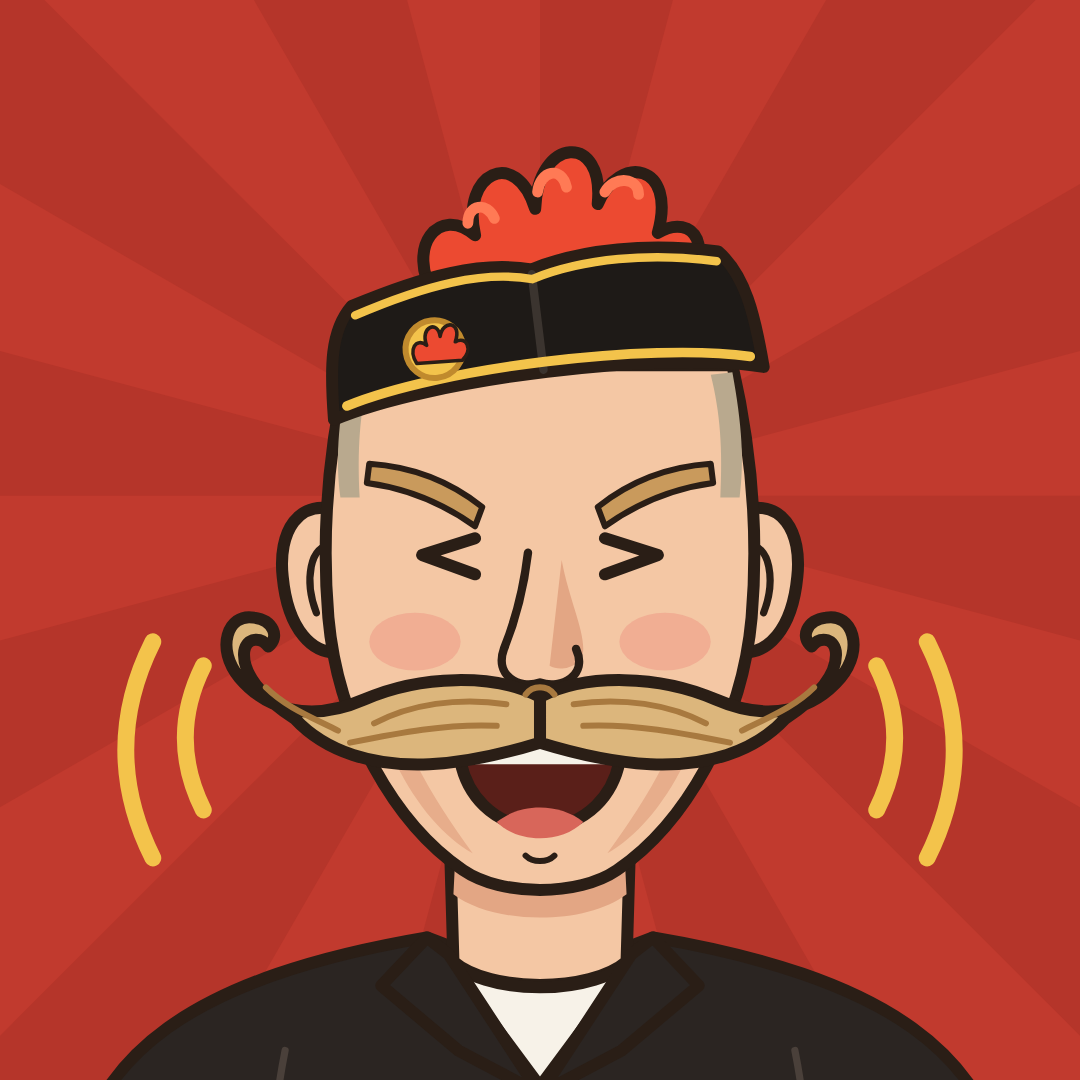
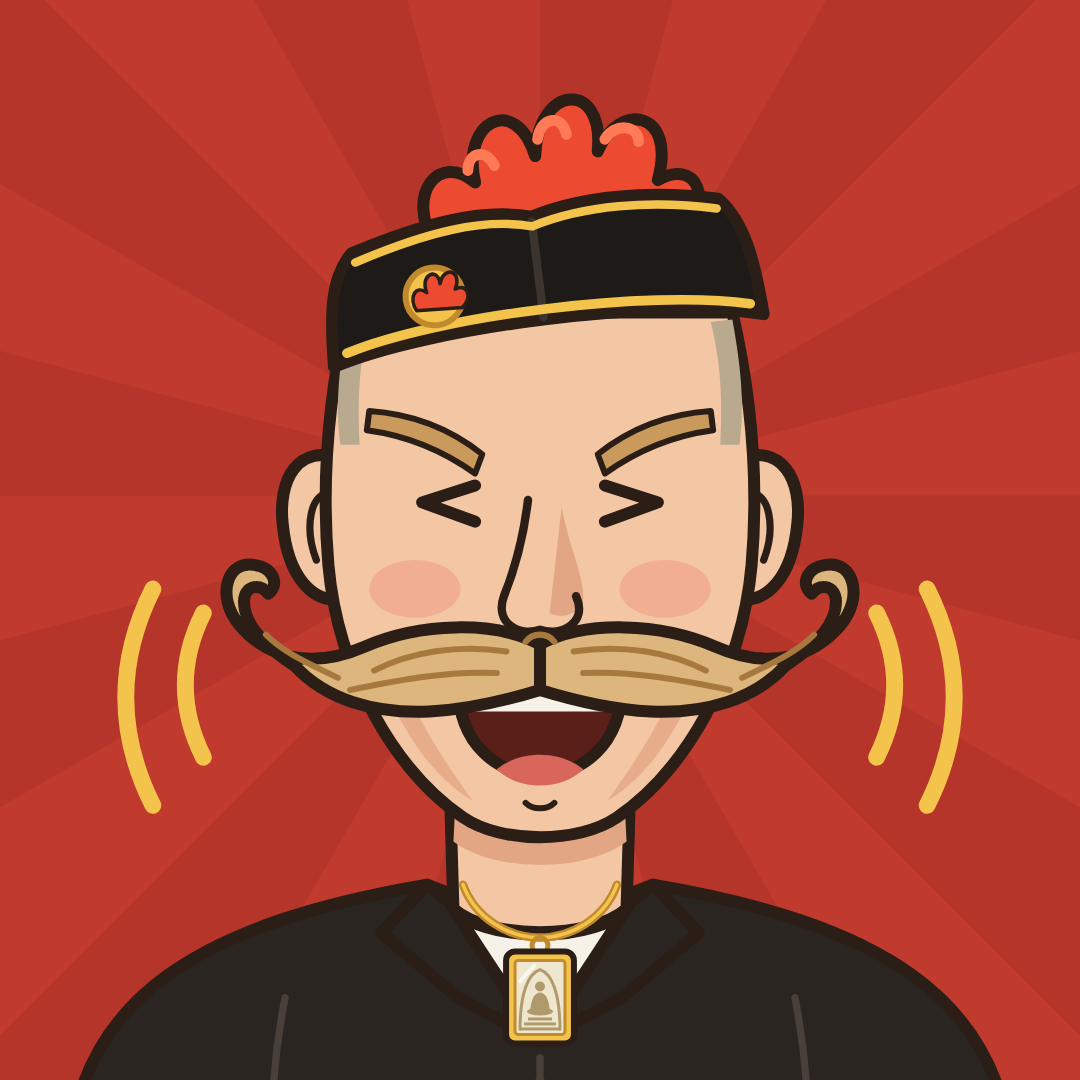
Gai Chon wears his พระสมเด็จ
A powder tablet in a gold case on a gold chain at the throat: seated
Buddha under the bell arch on a three-tier base. The figure moves up
40 px so the pendant sits inside the round crop; tests/test_cast.py
now checks the amulet's foot as well and reads the placement from
make_cast.CHAR_Y/CHAR_S instead of a copy of it.

Claude-Session: https://claude.ai/code/session_01JFezkyuZkike4PLAT6MXEq

Changed region(s): [[0.0611, 0.0611, 0.9472, 1.0]]

diff --git a/make_cast.py b/make_cast.py
@@ -24,6 +24,7 @@ correctly by definition (same reason as make_og_cards.py).
 The palette is the site's: --ant #c13a2e behind him (it is also the red of the
 portraits he was drawn from), --ink #2a1e16 for every line, --gold for the
 piping. No emblem of any organisation is drawn on the cap; the pin is a comb.
+At his throat, the พระสมเด็จ he wears, in a gold case on a gold chain.
 """
 import argparse
 import shutil
@@ -64,6 +65,10 @@ CAP = "#1e1a17"
 SHIRT = "#2b2522"
 TEE = "#f7f2e8"
 LENS = "#3a2f28"
+
+# where the avatar hangs the character: raised so the amulet at his throat
+# stays inside the round crop
+CHAR_Y, CHAR_S = 490, 1.14
 
 W = 10  # the one line weight; the bug scales it, nothing else changes it
 
@@ -122,6 +127,41 @@ def shoulders():
         f'<path d="M512 950 L512 1030"/><path d="M300 900 C290 950 288 990 290 1030"/>'
         f'<path d="M724 900 C734 950 736 990 734 1030"/></g>'
         f'<circle cx="512" cy="975" r="8" fill="#4a403a"/>'
+    )
+
+
+def amulet():
+    """พระสมเด็จ on a gold chain: a powder tablet in a gold case, the seated
+    Buddha under the bell arch on a three-tier base. At the throat, where he
+    wears it; it sits inside the round crop (tests/test_cast.py)."""
+    chain = 'M448 806 C458 834 486 850 512 850'
+    tablet = "#efe6cf"
+    relief = "#b09a6c"
+    return (
+        mirror(chain, "none", stroke=GOLD_DEEP, sw=7)
+        + mirror(chain, "none", stroke=GOLD, sw=3)
+        # the pendant is drawn at full size and hung at 0.83 from the chain's foot
+        + '<g transform="translate(512 850) scale(.83) translate(-512 -856)">'
+        + f'<circle cx="512" cy="864" r="8" fill="none" stroke="{GOLD_DEEP}" stroke-width="5"/>'
+        + f'<rect x="478" y="870" width="68" height="92" rx="9" fill="{GOLD}" '
+          f'stroke="{INK}" stroke-width="6"/>'
+        + f'<rect x="487" y="879" width="50" height="74" rx="3" fill="{tablet}" '
+          f'stroke="{GOLD_DEEP}" stroke-width="3"/>'
+        # the bell arch
+        + f'<path d="M492 948 C492 912 500 892 512 888 C524 892 532 912 532 948" '
+          f'fill="none" stroke="{relief}" stroke-width="3" stroke-linecap="round"/>'
+        # seated Buddha: head, body, lap
+        + f'<circle cx="512" cy="905" r="5" fill="{relief}"/>'
+        + f'<path d="M502 930 C503 917 507 911 512 911 C517 911 521 917 522 930 Z" '
+          f'fill="{relief}"/>'
+        + f'<ellipse cx="512" cy="930" rx="13" ry="4" fill="{relief}"/>'
+        # three tiers
+        + f'<g fill="{relief}"><rect x="500" y="936" width="24" height="3"/>'
+          f'<rect x="496" y="941" width="32" height="3"/>'
+          f'<rect x="492" y="946" width="40" height="3"/></g>'
+        # glass over it
+        + '<path d="M492 900 L506 884" stroke="#fff" stroke-width="4" '
+          'stroke-linecap="round" opacity=".7"/></g>'
     )
 
 
@@ -298,7 +338,7 @@ def extras(expr):
 
 
 def character(expr):
-    return (shoulders() + head() + brows(expr) + eyes(expr) + nose()
+    return (shoulders() + amulet() + head() + brows(expr) + eyes(expr) + nose()
             + mouth(expr) + mustache(expr) + comb() + cap() + extras(expr))
 
 
@@ -308,7 +348,7 @@ def avatar_svg(expr):
     return (f'<svg xmlns="http://www.w3.org/2000/svg" viewBox="0 0 1024 1024" '
             f'role="img" aria-label="{TITLES[expr]}"><title>{TITLES[expr]}</title>'
             f'{background()}'
-            f'<g transform="translate(512 540) scale(1.14) translate(-512 -500)">'
+            f'<g transform="translate(512 {CHAR_Y}) scale({CHAR_S}) translate(-512 -500)">'
             f'{character(expr)}</g></svg>\n')
 
 

diff --git a/tests/test_cast.py b/tests/test_cast.py
@@ -6,7 +6,8 @@
 No build, no browser. Checks what make_cast.py draws, not the PNGs:
 
 1. Every avatar and the bug is well-formed SVG with a bilingual <title>.
-2. The comb's top and both mustache tips land inside the inscribed circle,
+2. The comb's top, both mustache tips and the foot of the amulet land
+   inside the inscribed circle,
    so Facebook's and Instagram's round crop takes background only.
 """
 import math
@@ -19,8 +20,9 @@ import make_cast  # noqa: E402
 
 
 def placed(x, y):
-    # the avatar's character transform: translate(512 540) scale(1.14) translate(-512 -500)
-    return 512 + 1.14 * (x - 512), 540 + 1.14 * (y - 500)
+    # the avatar's character transform: translate(512 Y) scale(S) translate(-512 -500)
+    y0, k = make_cast.CHAR_Y, make_cast.CHAR_S
+    return 512 + k * (x - 512), y0 + k * (y - 500)
 
 
 def main():
@@ -34,7 +36,8 @@ def main():
     ET.fromstring(make_cast.bug_svg())
     # comb top (100 + its 36 px drop), mustache tips (782 and its mirror, 546)
     for label, (x, y) in {"comb top": (512, 136), "right tip": (782, 546),
-                          "left tip": (242, 546)}.items():
+                          "left tip": (242, 546),
+                          "amulet foot": (512, 850 + .83 * (962 - 856))}.items():
         px, py = placed(x, y)
         r = math.hypot(px - 512, py - 512)
         if r > 500:
